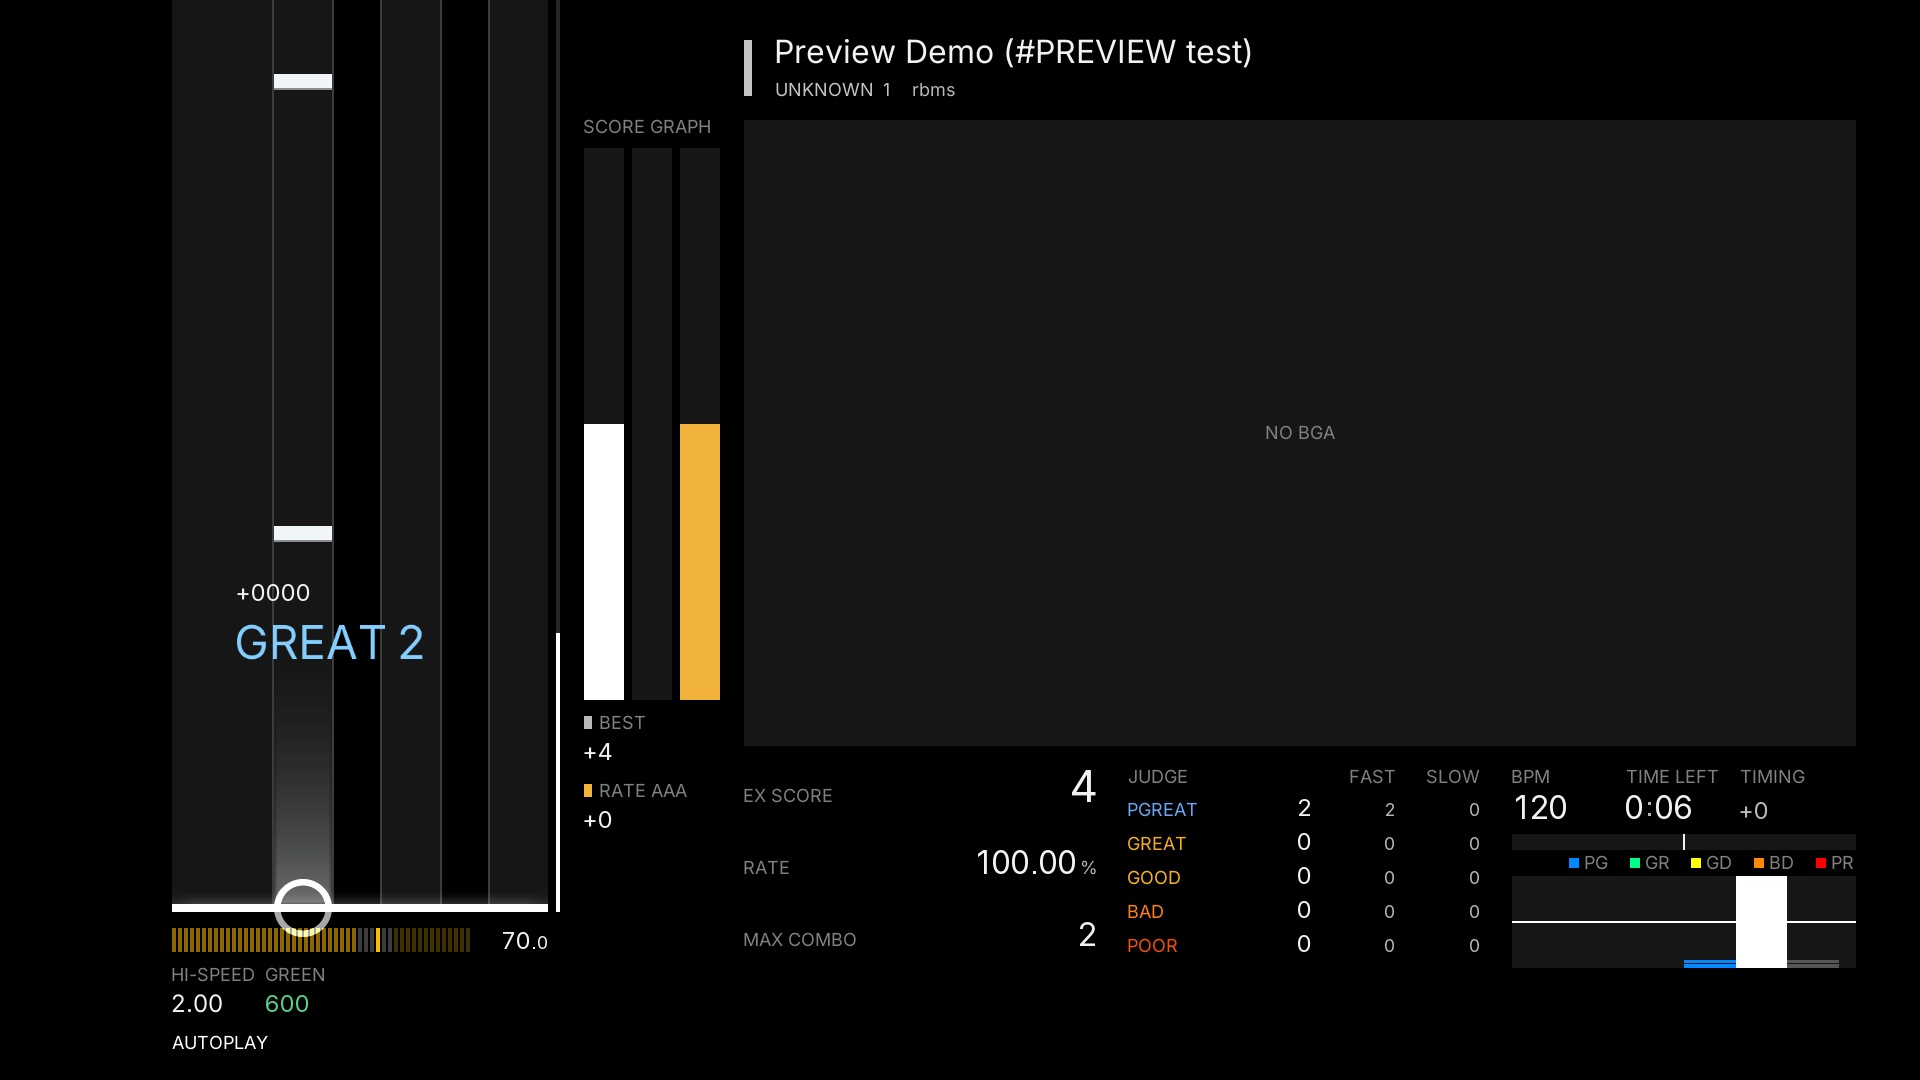
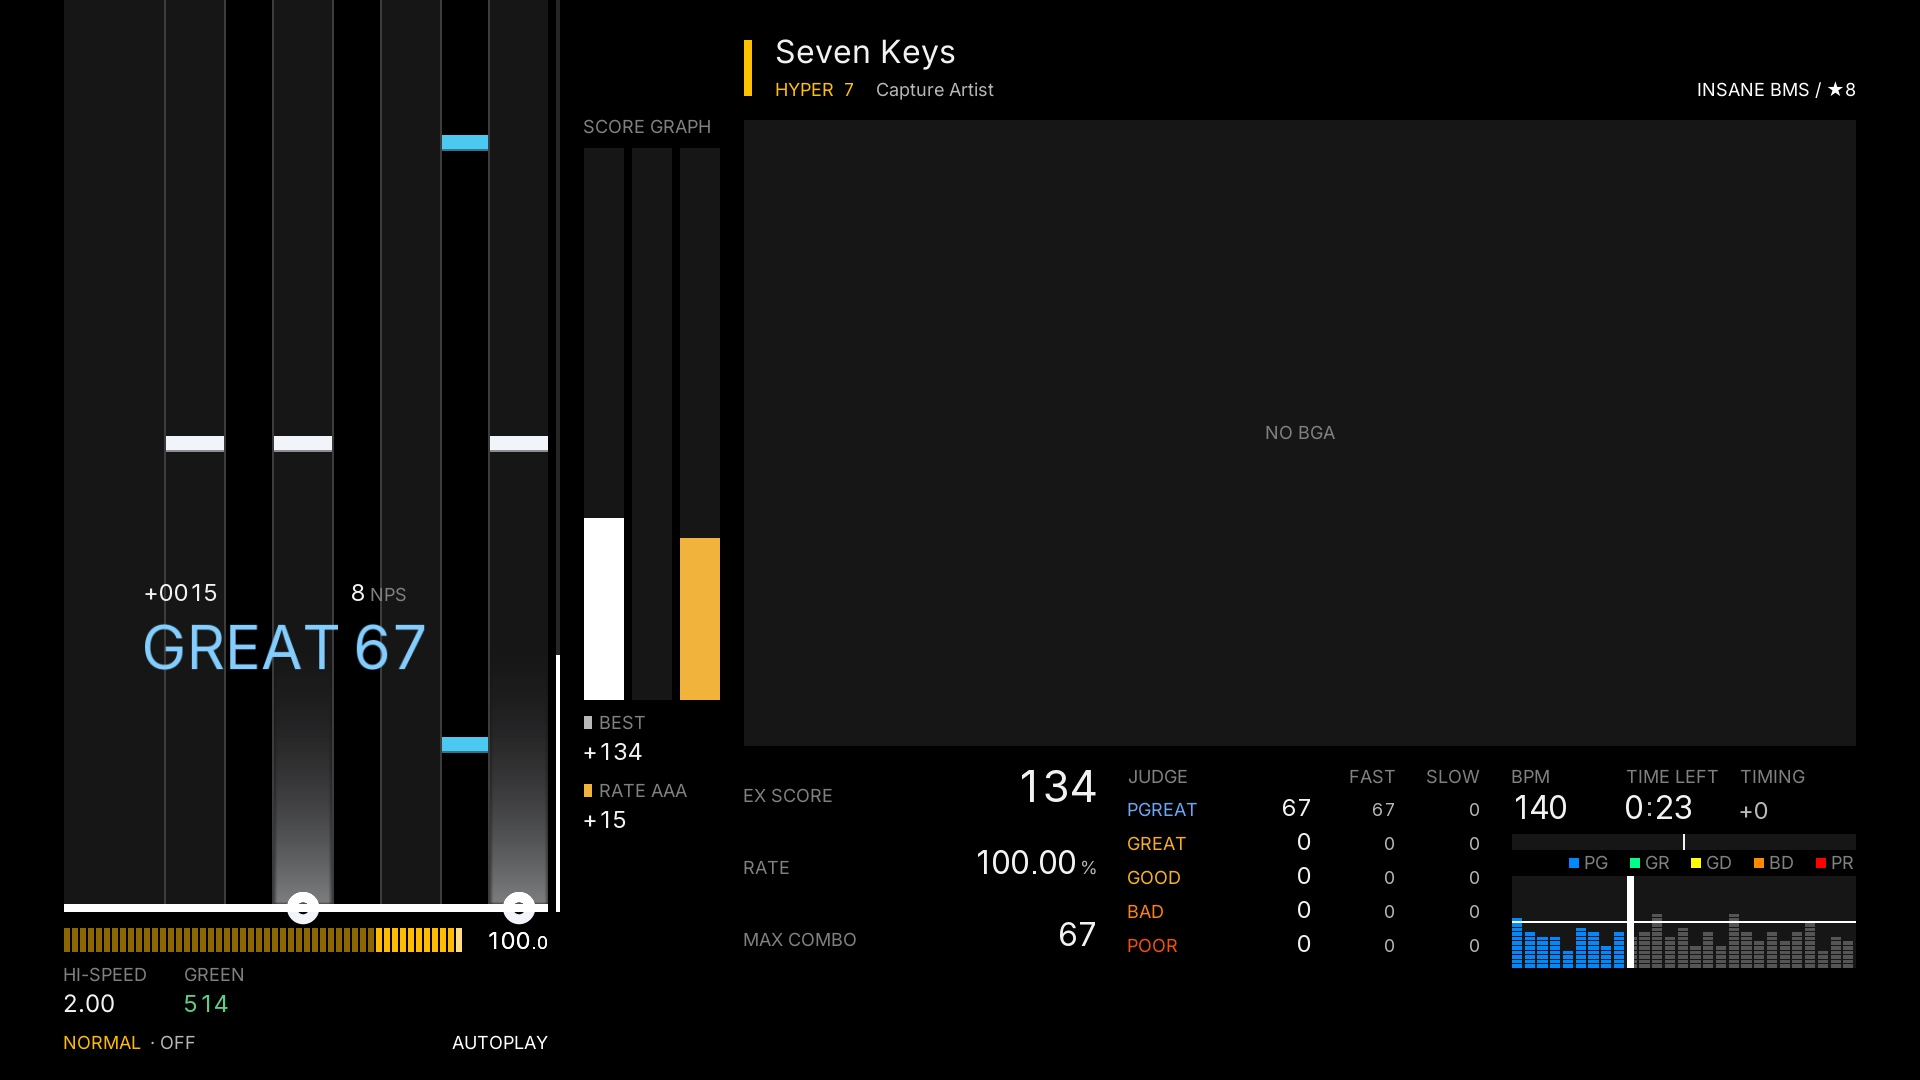
docs(readme): 선곡·플레이 화면 캡처 갱신(플레이 캡처의 폴더 이름을 캡처 글꼴로 그릴 수 있는 글자로)

diff --git a/apps/rbms-player/src/stage/capture/play_rows.rs b/apps/rbms-player/src/stage/capture/play_rows.rs
@@ -59,8 +59,9 @@ const CAPTURED_COURSE: &str = "Capture Course";
 const CAPTURED_COURSE_STAGES: usize = 2;
 
 /// The folders of the song browser a captured run is picked in, outermost first, so its head names
-/// where it was started: the last two of them, a table and its level.
-const CAPTURED_FOLDERS: [&str; 3] = ["TABLES", "発狂BMS", "★8"];
+/// where it was started: the last two of them, a table and its level. They are written in letters
+/// the capture's built-in font holds, so the head reads in a capture as it does in the window.
+const CAPTURED_FOLDERS: [&str; 3] = ["TABLES", "INSANE BMS", "★8"];
 
 /// The shares of the field the three covers take in the captures that draw them.
 const CAPTURED_COVER: f32 = 0.3;
